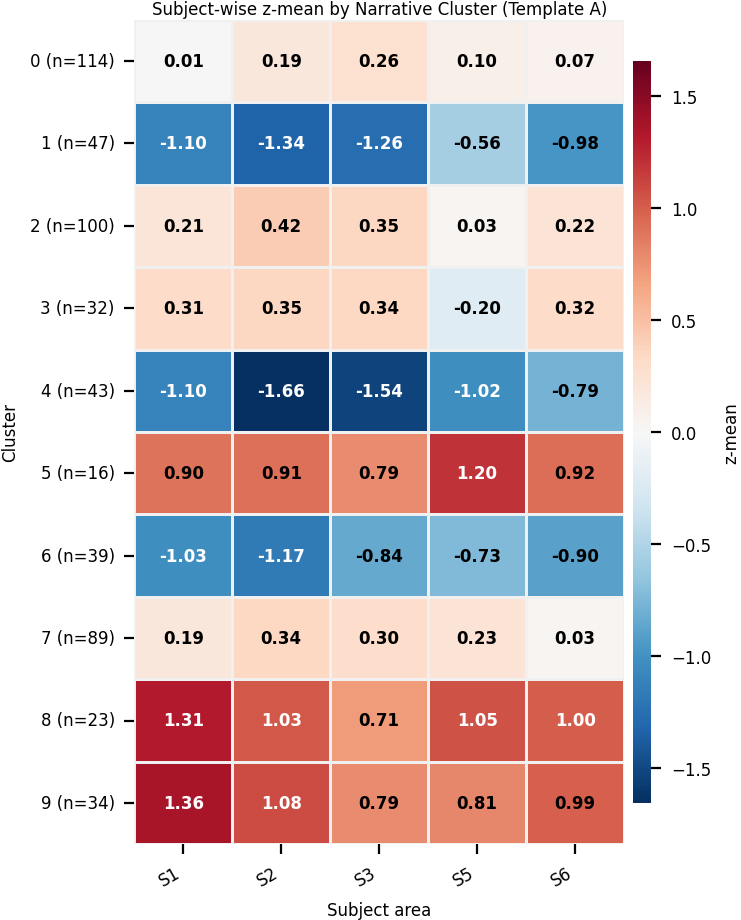
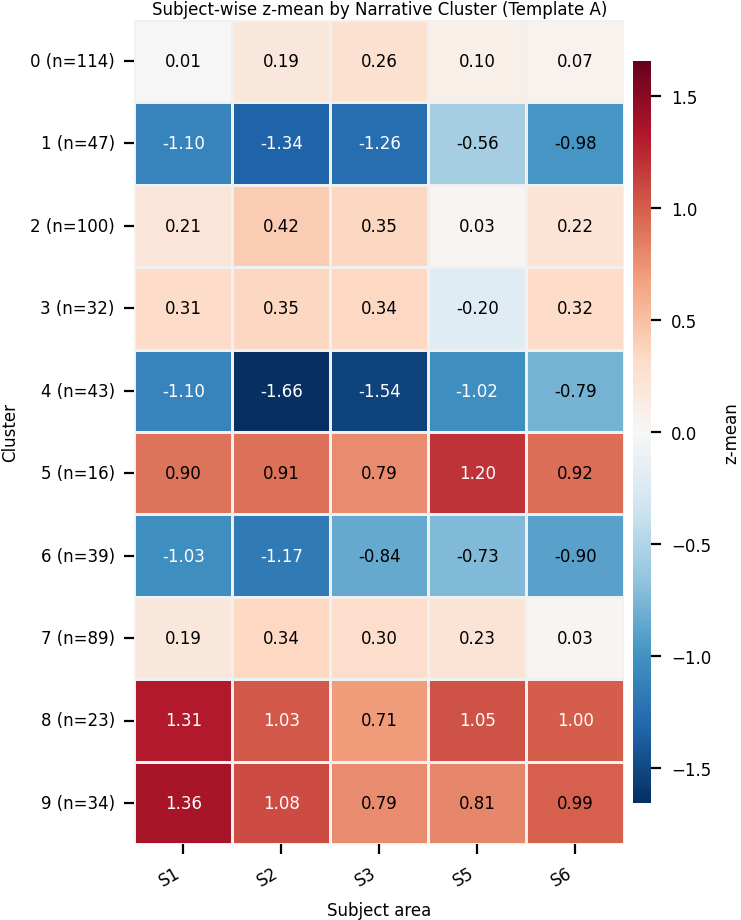
added changes

diff --git a/narrative_embedding_clustering/04_compare_with_gmm_bic.py b/narrative_embedding_clustering/04_compare_with_gmm_bic.py
@@ -71,7 +71,7 @@ def _save_zmean_heatmap(df: pd.DataFrame, cluster_col: str, value_cols: list, ou
         fmt=".2f",
         cbar=True,
         cbar_kws={"label": "z-mean", "shrink": 0.9, "pad": 0.015, "aspect": 40},
-        annot_kws={"size": annot_size, "weight": "bold"},
+        annot_kws={"size": annot_size, "weight": "normal"},
         linewidths=0.4,
         linecolor="#f0f0f0",
         ax=ax,
@@ -92,7 +92,6 @@ def _save_zmean_heatmap(df: pd.DataFrame, cluster_col: str, value_cols: list, ou
             val = float(text.get_text())
         except Exception:
             continue
-        text.set_fontweight("bold")
         text.set_color("white" if abs(val) > (0.6 * vmax) else "black")
     
     ax.set_title(title.replace("\n", " "), fontsize=annot_size, fontweight="normal", pad=2)
